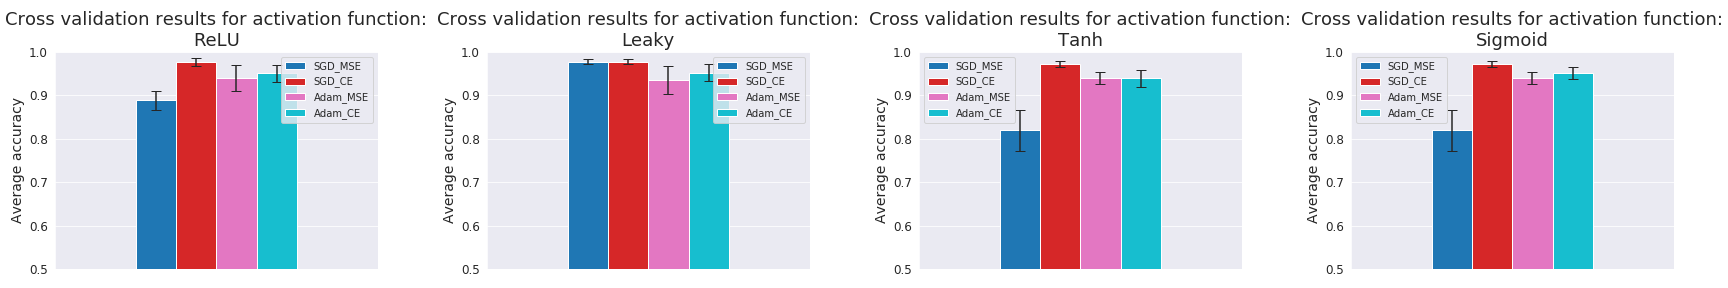
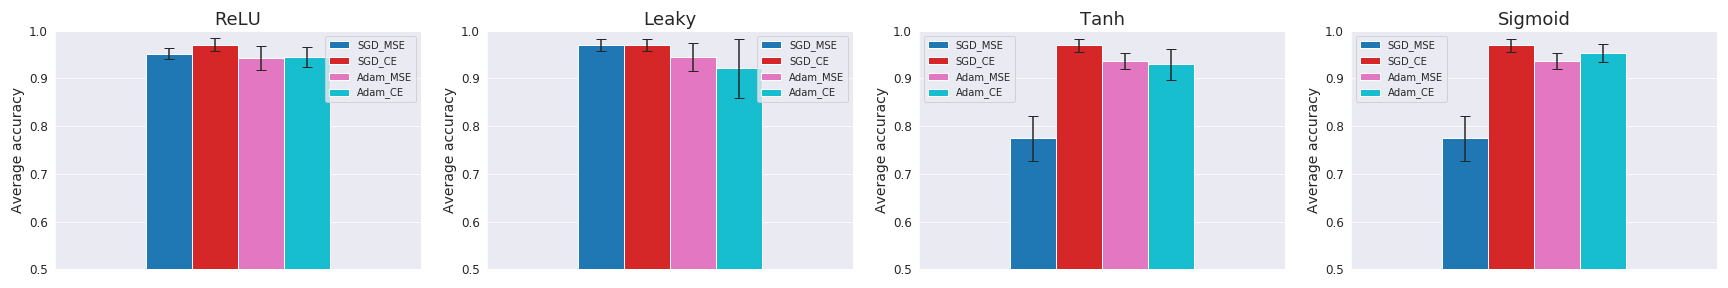
Updated plot for P2

diff --git a/Project2/plot.py b/Project2/plot.py
@@ -56,7 +56,7 @@ def visualize_cross_validation_results(cross_val_results, plots_filepath):
                                              capsize=5,
                                              ylim=(0.5, 1),
                                              colormap='tab10')
-        plt.title("Cross validation results for activation function:\n{}".format(plot_param_names), fontsize=18)
+        plt.title("{}".format(plot_param_names), fontsize=18)
         plt.ylabel("Average accuracy", fontsize=14)
         plt.yticks(fontsize=12)
         plt.xticks([], [])

diff --git a/Project2/train.py b/Project2/train.py
@@ -7,7 +7,7 @@ from criteria import LossMSE
 
 def generate_disc_set(nb):
     """
-    Function for generating the disc dataset of points distributed as Uniform(-1, 1)
+    Function for generating the disc dataset of points distributed as Uniform(0, 1)
     Points inside a 2D disk of radius sqrt(2 / pi) centered at the origin are labeled with 0 while the rest with 1
 
     :param nb: number of train samples, positive int
